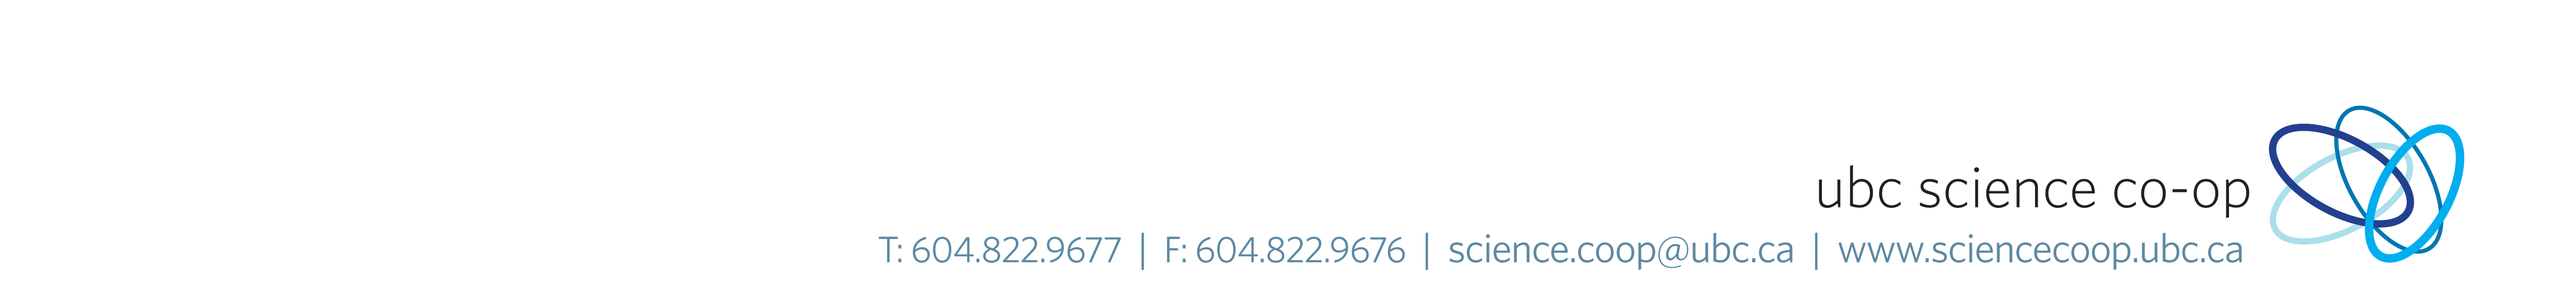
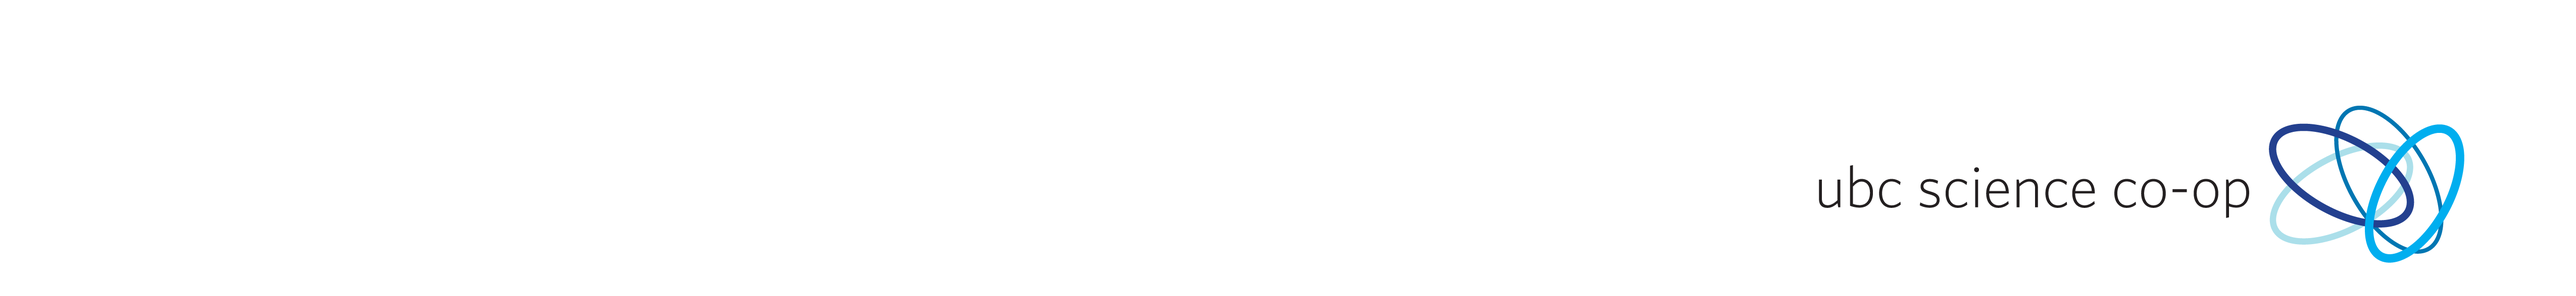
New changes to remove personal info

Changed region(s): [[0.3429, 0.7959, 0.8729, 0.8878]]

diff --git a/js/resume_jquery.js b/js/resume_jquery.js
@@ -1,5 +1,5 @@
 $.ajax({
-    url: '/json/GinaHong_Resume.json',
+    url: '/json/Dummy_Resume.json',
     dataType: 'json',
     type: 'get',
     cache: false,
